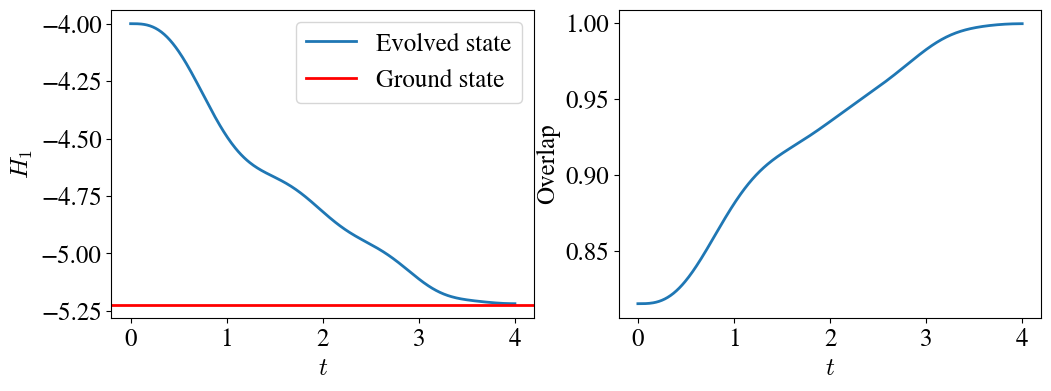
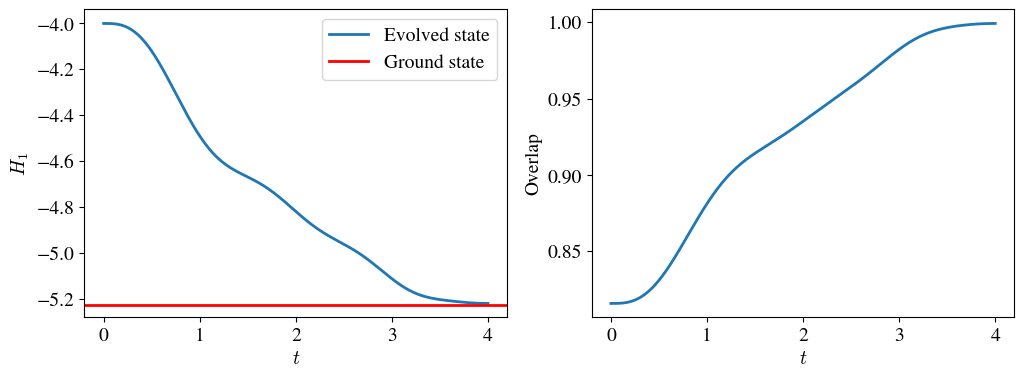
Reduce dynamics plot font size

diff --git a/examples/adiabatic/linear.py b/examples/adiabatic/linear.py
@@ -6,7 +6,7 @@ import matplotlib.pyplot as plt
 from qibo import callbacks, hamiltonians, models
 matplotlib.rcParams['mathtext.fontset'] = 'cm'
 matplotlib.rcParams['font.family'] = 'STIXGeneral'
-matplotlib.rcParams["font.size"] = 18
+matplotlib.rcParams["font.size"] = 14
 
 
 parser = argparse.ArgumentParser()
